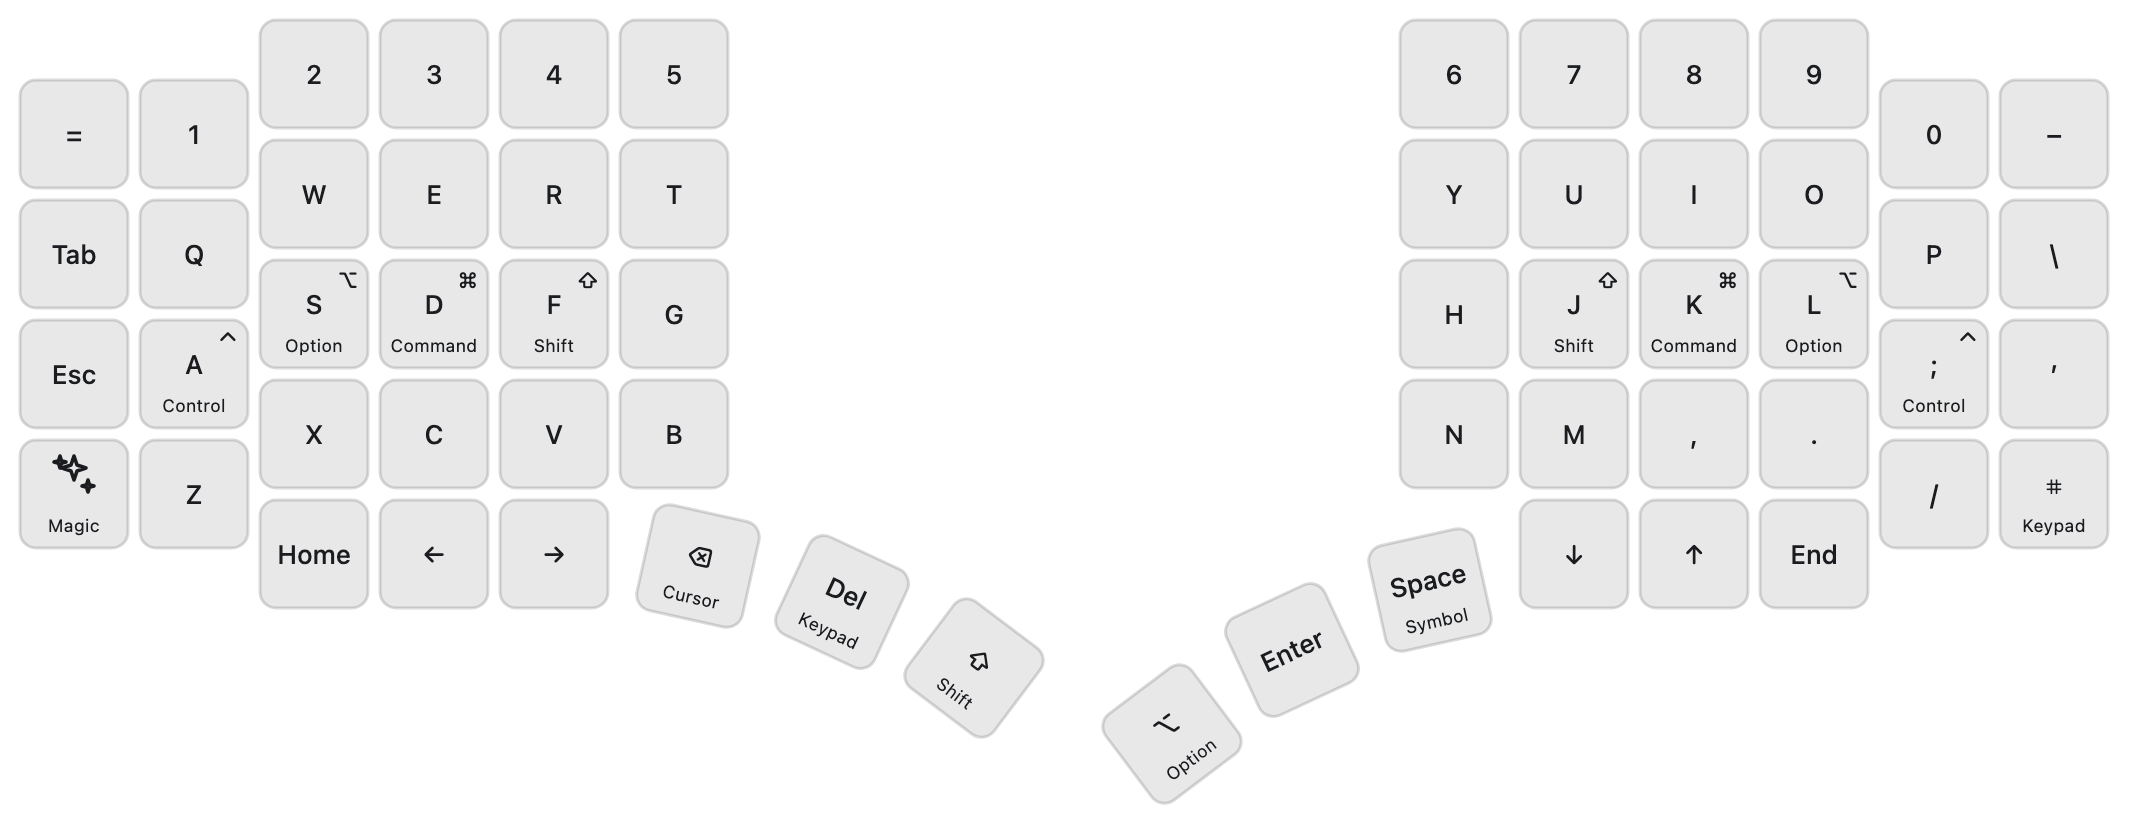
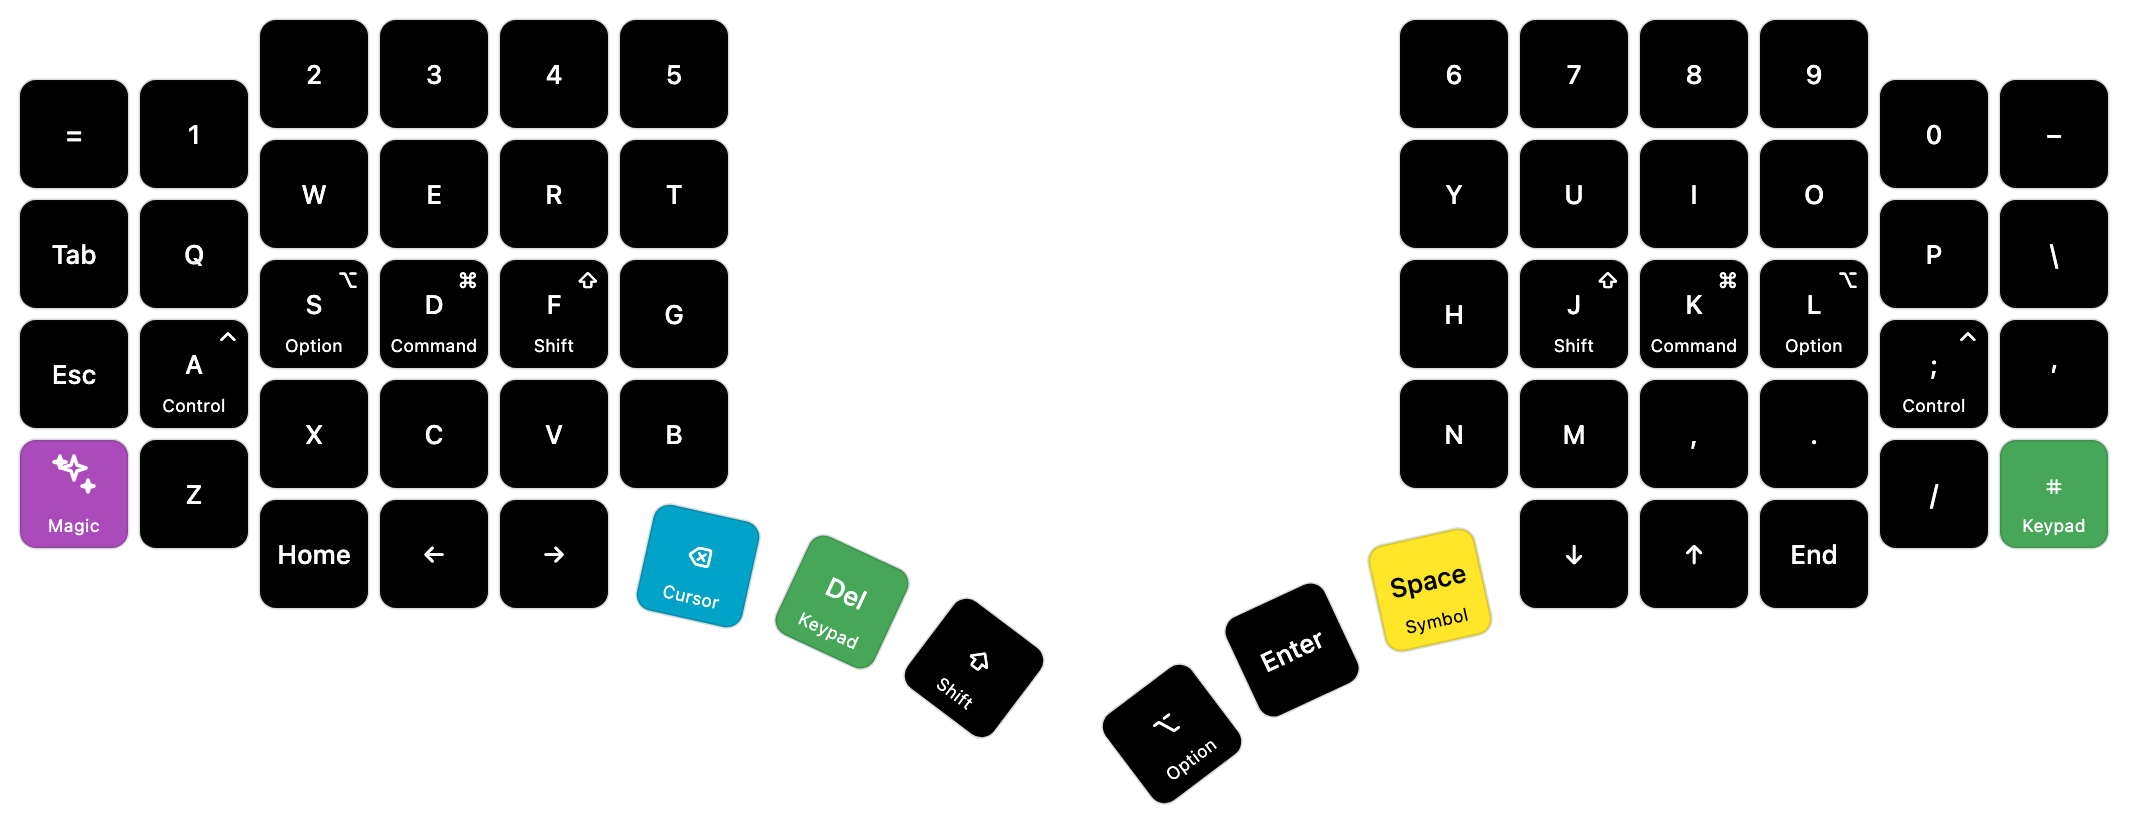
firmware: add base layer RGB guide
Keep the familiar typing layers visually quiet while identifying each
layer entry point by its destination color. Share one map between Base
and Typing so switching typing modes preserves the same guide.

diff --git a/layout-preview.html b/layout-preview.html
@@ -70,7 +70,7 @@
   const controls = root.querySelector("#go60-layer-controls");
   const status = root.querySelector("#go60-layer-status");
   const board = root.querySelector("#go60-board");
-  const layers = [{"name":"Base","bindings":["&kp EQUAL","&kp N1","&kp N2","&kp N3","&kp N4","&kp N5","&kp N6","&kp N7","&kp N8","&kp N9","&kp N0","&kp MINUS","&kp TAB","&kp Q","&kp W","&kp E","&kp R","&kp T","&kp Y","&kp U","&kp I","&kp O","&kp P","&kp BSLH","&kp ESC","&HRM_left_hand_v1_TKZ LCTRL A","&HRM_left_hand_v1_TKZ LALT S","&HRM_left_hand_v1_TKZ LGUI D","&HRM_left_hand_v1_TKZ LSHFT F","&kp G","&kp H","&HRM_right_hand_v1_TKZ RSHFT J","&HRM_right_hand_v1_TKZ LGUI K","&HRM_right_hand_v1_TKZ LALT L","&HRM_right_hand_v1_TKZ RCTRL SEMI","&kp SQT","&magic LAYER_Magic 0","&kp Z","&kp X","&kp C","&kp V","&kp B","&kp N","&kp M","&kp COMMA","&kp DOT","&kp FSLH","&td_LAYER_Keypad","&kp HOME","&kp LEFT","&kp RIGHT","&kp DOWN","&kp UP","&kp END","&lt LAYER_Cursor BSPC","&lt LAYER_Keypad DEL","&kp LSHFT","&kp RALT","&kp RET","&lt LAYER_Symbol SPACE"],"own":"111111111111111111111111111111111111111111111111111111111111"},{"name":"Typing","bindings":["&kp EQUAL","&kp N1","&kp N2","&kp N3","&kp N4","&kp N5","&kp N6","&kp N7","&kp N8","&kp N9","&kp N0","&kp MINUS","&kp TAB","&kp Q","&kp W","&kp E","&kp R","&kp T","&kp Y","&kp U","&kp I","&kp O","&kp P","&kp BSLH","&kp ESC","&kp A","&kp S","&kp D","&kp F","&kp G","&kp H","&kp J","&kp K","&kp L","&kp SEMI","&kp SQT","&magic LAYER_Magic 0","&kp Z","&kp X","&kp C","&kp V","&kp B","&kp N","&kp M","&kp COMMA","&kp DOT","&kp FSLH","&td_LAYER_Keypad","&kp HOME","&kp LEFT","&kp RIGHT","&kp DOWN","&kp UP","&kp END","&lt LAYER_Cursor BSPC","&lt LAYER_Keypad DEL","&kp LSHFT","&kp RALT","&kp RET","&lt LAYER_Symbol SPACE"],"own":"000000000000000000000000011110011110000000000000000000000000"},{"name":"Symbol","bindings":["&kp GRAVE","&kp COMMA","&kp LS(N9)","&kp LS(N0)","&kp SEMI","&kp DOT","&none","&none","&none","&none","&none","&none","&kp LS(N1)","&kp LBKT","&kp LS(LBKT)","&kp LS(RBKT)","&kp RBKT","&kp LS(FSLH)","&kp GRAVE","&kp DEL","&kp LS(TAB)","&kp INS","&kp ESC","&none","&kp LS(N3)","&kp LS(N6)","&kp EQUAL","&kp LS(MINUS)","&kp LS(N4)","&kp LS(N8)","&kp LS(SINGLE_QUOTE)","&kp BSPC","&kp TAB","&kp SPACE","&kp RET","&none","&kp LS(GRAVE)","&kp LS(COMMA)","&kp LS(BSLH)","&kp MINUS","&kp LS(DOT)","&kp FSLH","&kp SQT","&sk LSHFT","&sk LCTRL","&sk LALT","&sk LGUI","&none","&kp SQT","&kp LS(SINGLE_QUOTE)","&kp LS(EQUAL)","&kp BSLH","&kp LS(N7)","&symb_dotdot_v1_TKZ","&kp LS(N5)","&kp LS(SEMI)","&kp LS(N2)","&none","&none","&none"],"own":"111111111111111111111111111111111111111111111111111111111111","colors":["#AB4ABA","#7CE2FE","#7CE2FE","#7CE2FE","#FFE629","#FFE629","#000000","#000000","#000000","#000000","#000000","#000000","#7CE2FE","#AB4ABA","#7CE2FE","#7CE2FE","#FFE629","#FFE629","#AB4ABA","#F76B15","#F76B15","#F76B15","#F76B15","#000000","#FFE629","#FFE629","#BDEE63","#F76B15","#FFE629","#FFE629","#AB4ABA","#F76B15","#F76B15","#F76B15","#F76B15","#000000","#AB4ABA","#BDEE63","#BDEE63","#BDEE63","#BDEE63","#FFE629","#AB4ABA","#EDEEF0","#EDEEF0","#EDEEF0","#EDEEF0","#000000","#AB4ABA","#AB4ABA","#F76B15","#FFE629","#FFE629","#FFE629","#FFE629","#FFE629","#FFE629","#000000","#000000","#000000"]},{"name":"Cursor","bindings":["&none","&kp ESC","&kp INS","&kp LS(TAB)","&kp DEL","&none","&none","&none","&kp K_APP","&kp PAUSE_BREAK","&kp SLCK","&none","&kp CAPS","&kp RET","&kp LS(LG(Z))","&kp LG(Z)","&kp BSPC","&kp LG(X)","&kp LG(X)","&kp LS(TAB)","&kp LG(Z)","&kp LS(LG(Z))","&kp TAB","&kp PSCRN","&sk LSHFT","&kp LCTRL","&kp LALT","&kp LGUI","&kp LSHFT","&kp LG(C)","&kp LG(C)","&kp LEFT","&kp UP","&kp DOWN","&kp RIGHT","&sk RSHFT","&kp LG(L)","&kp LG(A)","&cur_SELECT_LINE_macos_v1_TKZ","&cur_SELECT_WORD_macos_v1_TKZ","&kp LG(F)","&kp LG(V)","&kp LG(V)","&kp HOME","&kp PG_UP","&kp PG_DN","&kp END","&kp LG(L)","&none","&kp LS(LG(G))","&kp LG(G)","&kp LG(F)","&kp LS(LG(G))","&kp LG(G)","&none","&mod_tab_v2_TKZ LGUI","&kp LG(F3)","&cur_SELECT_NONE_v1_TKZ","&cur_EXTEND_LINE_macos_v1_TKZ","&cur_EXTEND_WORD_macos_v1_TKZ"],"own":"111111111111111111111111111111111111111111111111111111111111","colors":["#000000","#F76B15","#F76B15","#F76B15","#F76B15","#000000","#000000","#000000","#000000","#000000","#000000","#000000","#000000","#F76B15","#AB4ABA","#AB4ABA","#F76B15","#FFE629","#FFE629","#F76B15","#D6409F","#D6409F","#F76B15","#000000","#EDEEF0","#EDEEF0","#EDEEF0","#EDEEF0","#EDEEF0","#FFE629","#FFE629","#46A758","#46A758","#46A758","#46A758","#EDEEF0","#AB4ABA","#00A2C7","#00A2C7","#00A2C7","#AB4ABA","#FFE629","#FFE629","#46A758","#46A758","#46A758","#46A758","#AB4ABA","#000000","#AB4ABA","#AB4ABA","#AB4ABA","#AB4ABA","#AB4ABA","#000000","#29A383","#000000","#00A2C7","#00A2C7","#00A2C7"]},{"name":"Gaming","bindings":["&kp ESC","&kp N1","&kp N2","&kp N3","&kp N4","&kp N5","&kp N6","&kp N7","&kp N8","&kp N9","&kp N0","&kp MINUS","&kp RET","&kp TAB","&kp Q","&kp W","&kp E","&kp R","&kp Y","&kp U","&kp I","&kp O","&kp P","&kp LS(EQUAL)","&kp GRAVE","&kp LSHFT","&kp A","&kp S","&kp D","&kp F","&kp H","&kp J","&kp K","&kp L","&kp SEMI","&kp LS(SQT)","&kp B","&kp LCTRL","&kp Z","&kp X","&kp C","&kp V","&kp N","&kp M","&kp UP","&kp LS(COMMA)","&kp LS(DOT)","&kp LGUI","&kp LALT","&kp T","&kp G","&kp LEFT","&kp DOWN","&kp RIGHT","&kp SPACE","&kp LSHFT","&kp LCTRL","&kp BSPC","&kp LALT","&kp RET"],"own":"111111111111111111111111111111111111111111111111111111111111","colors":["#000000","#000000","#000000","#000000","#000000","#000000","#000000","#000000","#000000","#000000","#000000","#000000","#000000","#000000","#000000","#46A758","#000000","#000000","#000000","#000000","#000000","#000000","#000000","#000000","#000000","#000000","#46A758","#46A758","#46A758","#000000","#000000","#000000","#000000","#000000","#000000","#000000","#FFE629","#000000","#000000","#000000","#000000","#000000","#000000","#000000","#46A758","#000000","#000000","#000000","#000000","#000000","#000000","#46A758","#46A758","#46A758","#000000","#000000","#000000","#000000","#000000","#000000"]},{"name":"Keypad","bindings":["&none","&kp F1","&kp F2","&kp F3","&kp F4","&kp F5","&kp F6","&kp F7","&kp F8","&kp F9","&kp F10","&kp F11","&kp TAB","&none","&kp HOME","&kp UP","&kp END","&kp PG_UP","&kp KP_N7","&kp KP_N8","&kp KP_N9","&kp KP_MINUS","&kp KP_SLASH","&kp F12","&kp ESC","&kp LG(LS(Z))","&kp LEFT","&kp DOWN","&kp RIGHT","&kp PG_DN","&kp KP_N4","&kp KP_N5","&kp KP_N6","&kp KP_PLUS","&kp KP_MULTIPLY","&kp KP_NUM","&magic LAYER_Magic 0","&kp LG(Z)","&kp LG(X)","&kp LG(C)","&kp LG(V)","&kp LG(LA(LS(V)))","&kp KP_N1","&kp KP_N2","&kp KP_N3","&kp KP_ENTER","&kp EQUAL","&to LAYER_Base","&none","&kp T","&kp G","&kp KP_N0","&kp KP_DOT","&kp KP_ENTER","&none","&kp LSHFT","&kp LCTRL","&kp BSPC","&kp LALT","&kp KP_N0"],"own":"111111111111111111111111111111111111111111111111100111100001","colors":["#000000","#EDEEF0","#EDEEF0","#EDEEF0","#EDEEF0","#EDEEF0","#EDEEF0","#EDEEF0","#EDEEF0","#EDEEF0","#EDEEF0","#EDEEF0","#EDEEF0","#000000","#46A758","#46A758","#46A758","#46A758","#EDEEF0","#EDEEF0","#EDEEF0","#EDEEF0","#EDEEF0","#EDEEF0","#EDEEF0","#FFE629","#46A758","#46A758","#46A758","#46A758","#EDEEF0","#EDEEF0","#EDEEF0","#EDEEF0","#EDEEF0","#F76B15","#000000","#FFE629","#FFE629","#FFE629","#FFE629","#FFE629","#EDEEF0","#EDEEF0","#EDEEF0","#EDEEF0","#EDEEF0","#000000","#000000","#EDEEF0","#EDEEF0","#EDEEF0","#EDEEF0","#EDEEF0","#EDEEF0","#EDEEF0","#EDEEF0","#EDEEF0","#EDEEF0","#EDEEF0"]},{"name":"Magic","bindings":["&none","&kp C_BRI_DN","&kp C_BRI_UP","&kp C_PREV","&kp C_NEXT","&kp C_PP","&kp C_MUTE","&kp C_VOL_DN","&kp C_VOL_UP","&none","&bt BT_CLR","&bt BT_CLR_ALL","&bootloader","&rgb_ug RGB_SPI","&rgb_ug RGB_SAI","&rgb_ug RGB_HUI","&rgb_ug RGB_BRI","&rgb_ug RGB_TOG","&none","&none","&none","&none","&none","&bootloader","&sys_reset","&rgb_ug RGB_SPD","&rgb_ug RGB_SAD","&rgb_ug RGB_HUD","&rgb_ug RGB_BRD","&rgb_ug RGB_EFF","&none","&none","&none","&none","&none","&sys_reset","&none","&none","&bt_0","&bt_1","&bt_2","&bt_3","&none","&none","&none","&none","&none","&none","&out OUT_USB","&none","&to LAYER_Typing","&none","&none","&none","&to LAYER_Base","&none","&none","&none","&none","&none"],"own":"111111111111111111111111111111111111111111111111111111111111"}];
+  const layers = [{"name":"Base","bindings":["&kp EQUAL","&kp N1","&kp N2","&kp N3","&kp N4","&kp N5","&kp N6","&kp N7","&kp N8","&kp N9","&kp N0","&kp MINUS","&kp TAB","&kp Q","&kp W","&kp E","&kp R","&kp T","&kp Y","&kp U","&kp I","&kp O","&kp P","&kp BSLH","&kp ESC","&HRM_left_hand_v1_TKZ LCTRL A","&HRM_left_hand_v1_TKZ LALT S","&HRM_left_hand_v1_TKZ LGUI D","&HRM_left_hand_v1_TKZ LSHFT F","&kp G","&kp H","&HRM_right_hand_v1_TKZ RSHFT J","&HRM_right_hand_v1_TKZ LGUI K","&HRM_right_hand_v1_TKZ LALT L","&HRM_right_hand_v1_TKZ RCTRL SEMI","&kp SQT","&magic LAYER_Magic 0","&kp Z","&kp X","&kp C","&kp V","&kp B","&kp N","&kp M","&kp COMMA","&kp DOT","&kp FSLH","&td_LAYER_Keypad","&kp HOME","&kp LEFT","&kp RIGHT","&kp DOWN","&kp UP","&kp END","&lt LAYER_Cursor BSPC","&lt LAYER_Keypad DEL","&kp LSHFT","&kp RALT","&kp RET","&lt LAYER_Symbol SPACE"],"own":"111111111111111111111111111111111111111111111111111111111111","colors":["#000000","#000000","#000000","#000000","#000000","#000000","#000000","#000000","#000000","#000000","#000000","#000000","#000000","#000000","#000000","#000000","#000000","#000000","#000000","#000000","#000000","#000000","#000000","#000000","#000000","#000000","#000000","#000000","#000000","#000000","#000000","#000000","#000000","#000000","#000000","#000000","#AB4ABA","#000000","#000000","#000000","#000000","#000000","#000000","#000000","#000000","#000000","#000000","#46A758","#000000","#000000","#000000","#000000","#000000","#000000","#00A2C7","#46A758","#000000","#000000","#000000","#FFE629"]},{"name":"Typing","bindings":["&kp EQUAL","&kp N1","&kp N2","&kp N3","&kp N4","&kp N5","&kp N6","&kp N7","&kp N8","&kp N9","&kp N0","&kp MINUS","&kp TAB","&kp Q","&kp W","&kp E","&kp R","&kp T","&kp Y","&kp U","&kp I","&kp O","&kp P","&kp BSLH","&kp ESC","&kp A","&kp S","&kp D","&kp F","&kp G","&kp H","&kp J","&kp K","&kp L","&kp SEMI","&kp SQT","&magic LAYER_Magic 0","&kp Z","&kp X","&kp C","&kp V","&kp B","&kp N","&kp M","&kp COMMA","&kp DOT","&kp FSLH","&td_LAYER_Keypad","&kp HOME","&kp LEFT","&kp RIGHT","&kp DOWN","&kp UP","&kp END","&lt LAYER_Cursor BSPC","&lt LAYER_Keypad DEL","&kp LSHFT","&kp RALT","&kp RET","&lt LAYER_Symbol SPACE"],"own":"000000000000000000000000011110011110000000000000000000000000","colors":["#000000","#000000","#000000","#000000","#000000","#000000","#000000","#000000","#000000","#000000","#000000","#000000","#000000","#000000","#000000","#000000","#000000","#000000","#000000","#000000","#000000","#000000","#000000","#000000","#000000","#000000","#000000","#000000","#000000","#000000","#000000","#000000","#000000","#000000","#000000","#000000","#AB4ABA","#000000","#000000","#000000","#000000","#000000","#000000","#000000","#000000","#000000","#000000","#46A758","#000000","#000000","#000000","#000000","#000000","#000000","#00A2C7","#46A758","#000000","#000000","#000000","#FFE629"]},{"name":"Symbol","bindings":["&kp GRAVE","&kp COMMA","&kp LS(N9)","&kp LS(N0)","&kp SEMI","&kp DOT","&none","&none","&none","&none","&none","&none","&kp LS(N1)","&kp LBKT","&kp LS(LBKT)","&kp LS(RBKT)","&kp RBKT","&kp LS(FSLH)","&kp GRAVE","&kp DEL","&kp LS(TAB)","&kp INS","&kp ESC","&none","&kp LS(N3)","&kp LS(N6)","&kp EQUAL","&kp LS(MINUS)","&kp LS(N4)","&kp LS(N8)","&kp LS(SINGLE_QUOTE)","&kp BSPC","&kp TAB","&kp SPACE","&kp RET","&none","&kp LS(GRAVE)","&kp LS(COMMA)","&kp LS(BSLH)","&kp MINUS","&kp LS(DOT)","&kp FSLH","&kp SQT","&sk LSHFT","&sk LCTRL","&sk LALT","&sk LGUI","&none","&kp SQT","&kp LS(SINGLE_QUOTE)","&kp LS(EQUAL)","&kp BSLH","&kp LS(N7)","&symb_dotdot_v1_TKZ","&kp LS(N5)","&kp LS(SEMI)","&kp LS(N2)","&none","&none","&none"],"own":"111111111111111111111111111111111111111111111111111111111111","colors":["#AB4ABA","#7CE2FE","#7CE2FE","#7CE2FE","#FFE629","#FFE629","#000000","#000000","#000000","#000000","#000000","#000000","#7CE2FE","#AB4ABA","#7CE2FE","#7CE2FE","#FFE629","#FFE629","#AB4ABA","#F76B15","#F76B15","#F76B15","#F76B15","#000000","#FFE629","#FFE629","#BDEE63","#F76B15","#FFE629","#FFE629","#AB4ABA","#F76B15","#F76B15","#F76B15","#F76B15","#000000","#AB4ABA","#BDEE63","#BDEE63","#BDEE63","#BDEE63","#FFE629","#AB4ABA","#EDEEF0","#EDEEF0","#EDEEF0","#EDEEF0","#000000","#AB4ABA","#AB4ABA","#F76B15","#FFE629","#FFE629","#FFE629","#FFE629","#FFE629","#FFE629","#000000","#000000","#000000"]},{"name":"Cursor","bindings":["&none","&kp ESC","&kp INS","&kp LS(TAB)","&kp DEL","&none","&none","&none","&kp K_APP","&kp PAUSE_BREAK","&kp SLCK","&none","&kp CAPS","&kp RET","&kp LS(LG(Z))","&kp LG(Z)","&kp BSPC","&kp LG(X)","&kp LG(X)","&kp LS(TAB)","&kp LG(Z)","&kp LS(LG(Z))","&kp TAB","&kp PSCRN","&sk LSHFT","&kp LCTRL","&kp LALT","&kp LGUI","&kp LSHFT","&kp LG(C)","&kp LG(C)","&kp LEFT","&kp UP","&kp DOWN","&kp RIGHT","&sk RSHFT","&kp LG(L)","&kp LG(A)","&cur_SELECT_LINE_macos_v1_TKZ","&cur_SELECT_WORD_macos_v1_TKZ","&kp LG(F)","&kp LG(V)","&kp LG(V)","&kp HOME","&kp PG_UP","&kp PG_DN","&kp END","&kp LG(L)","&none","&kp LS(LG(G))","&kp LG(G)","&kp LG(F)","&kp LS(LG(G))","&kp LG(G)","&none","&mod_tab_v2_TKZ LGUI","&kp LG(F3)","&cur_SELECT_NONE_v1_TKZ","&cur_EXTEND_LINE_macos_v1_TKZ","&cur_EXTEND_WORD_macos_v1_TKZ"],"own":"111111111111111111111111111111111111111111111111111111111111","colors":["#000000","#F76B15","#F76B15","#F76B15","#F76B15","#000000","#000000","#000000","#000000","#000000","#000000","#000000","#000000","#F76B15","#AB4ABA","#AB4ABA","#F76B15","#FFE629","#FFE629","#F76B15","#D6409F","#D6409F","#F76B15","#000000","#EDEEF0","#EDEEF0","#EDEEF0","#EDEEF0","#EDEEF0","#FFE629","#FFE629","#46A758","#46A758","#46A758","#46A758","#EDEEF0","#AB4ABA","#00A2C7","#00A2C7","#00A2C7","#AB4ABA","#FFE629","#FFE629","#46A758","#46A758","#46A758","#46A758","#AB4ABA","#000000","#AB4ABA","#AB4ABA","#AB4ABA","#AB4ABA","#AB4ABA","#000000","#29A383","#000000","#00A2C7","#00A2C7","#00A2C7"]},{"name":"Gaming","bindings":["&kp ESC","&kp N1","&kp N2","&kp N3","&kp N4","&kp N5","&kp N6","&kp N7","&kp N8","&kp N9","&kp N0","&kp MINUS","&kp RET","&kp TAB","&kp Q","&kp W","&kp E","&kp R","&kp Y","&kp U","&kp I","&kp O","&kp P","&kp LS(EQUAL)","&kp GRAVE","&kp LSHFT","&kp A","&kp S","&kp D","&kp F","&kp H","&kp J","&kp K","&kp L","&kp SEMI","&kp LS(SQT)","&kp B","&kp LCTRL","&kp Z","&kp X","&kp C","&kp V","&kp N","&kp M","&kp UP","&kp LS(COMMA)","&kp LS(DOT)","&kp LGUI","&kp LALT","&kp T","&kp G","&kp LEFT","&kp DOWN","&kp RIGHT","&kp SPACE","&kp LSHFT","&kp LCTRL","&kp BSPC","&kp LALT","&kp RET"],"own":"111111111111111111111111111111111111111111111111111111111111","colors":["#000000","#000000","#000000","#000000","#000000","#000000","#000000","#000000","#000000","#000000","#000000","#000000","#000000","#000000","#000000","#46A758","#000000","#000000","#000000","#000000","#000000","#000000","#000000","#000000","#000000","#000000","#46A758","#46A758","#46A758","#000000","#000000","#000000","#000000","#000000","#000000","#000000","#FFE629","#000000","#000000","#000000","#000000","#000000","#000000","#000000","#46A758","#000000","#000000","#000000","#000000","#000000","#000000","#46A758","#46A758","#46A758","#000000","#000000","#000000","#000000","#000000","#000000"]},{"name":"Keypad","bindings":["&none","&kp F1","&kp F2","&kp F3","&kp F4","&kp F5","&kp F6","&kp F7","&kp F8","&kp F9","&kp F10","&kp F11","&kp TAB","&none","&kp HOME","&kp UP","&kp END","&kp PG_UP","&kp KP_N7","&kp KP_N8","&kp KP_N9","&kp KP_MINUS","&kp KP_SLASH","&kp F12","&kp ESC","&kp LG(LS(Z))","&kp LEFT","&kp DOWN","&kp RIGHT","&kp PG_DN","&kp KP_N4","&kp KP_N5","&kp KP_N6","&kp KP_PLUS","&kp KP_MULTIPLY","&kp KP_NUM","&magic LAYER_Magic 0","&kp LG(Z)","&kp LG(X)","&kp LG(C)","&kp LG(V)","&kp LG(LA(LS(V)))","&kp KP_N1","&kp KP_N2","&kp KP_N3","&kp KP_ENTER","&kp EQUAL","&to LAYER_Base","&none","&kp T","&kp G","&kp KP_N0","&kp KP_DOT","&kp KP_ENTER","&none","&kp LSHFT","&kp LCTRL","&kp BSPC","&kp LALT","&kp KP_N0"],"own":"111111111111111111111111111111111111111111111111100111100001","colors":["#000000","#EDEEF0","#EDEEF0","#EDEEF0","#EDEEF0","#EDEEF0","#EDEEF0","#EDEEF0","#EDEEF0","#EDEEF0","#EDEEF0","#EDEEF0","#EDEEF0","#000000","#46A758","#46A758","#46A758","#46A758","#EDEEF0","#EDEEF0","#EDEEF0","#EDEEF0","#EDEEF0","#EDEEF0","#EDEEF0","#FFE629","#46A758","#46A758","#46A758","#46A758","#EDEEF0","#EDEEF0","#EDEEF0","#EDEEF0","#EDEEF0","#F76B15","#000000","#FFE629","#FFE629","#FFE629","#FFE629","#FFE629","#EDEEF0","#EDEEF0","#EDEEF0","#EDEEF0","#EDEEF0","#000000","#000000","#EDEEF0","#EDEEF0","#EDEEF0","#EDEEF0","#EDEEF0","#EDEEF0","#EDEEF0","#EDEEF0","#EDEEF0","#EDEEF0","#EDEEF0"]},{"name":"Magic","bindings":["&none","&kp C_BRI_DN","&kp C_BRI_UP","&kp C_PREV","&kp C_NEXT","&kp C_PP","&kp C_MUTE","&kp C_VOL_DN","&kp C_VOL_UP","&none","&bt BT_CLR","&bt BT_CLR_ALL","&bootloader","&rgb_ug RGB_SPI","&rgb_ug RGB_SAI","&rgb_ug RGB_HUI","&rgb_ug RGB_BRI","&rgb_ug RGB_TOG","&none","&none","&none","&none","&none","&bootloader","&sys_reset","&rgb_ug RGB_SPD","&rgb_ug RGB_SAD","&rgb_ug RGB_HUD","&rgb_ug RGB_BRD","&rgb_ug RGB_EFF","&none","&none","&none","&none","&none","&sys_reset","&none","&none","&bt_0","&bt_1","&bt_2","&bt_3","&none","&none","&none","&none","&none","&none","&out OUT_USB","&none","&to LAYER_Typing","&none","&none","&none","&to LAYER_Base","&none","&none","&none","&none","&none"],"own":"111111111111111111111111111111111111111111111111111111111111"}];
   const layerNames = layers.map(layer => layer.name);
   const keyNames = ["LH C6R1","LH C5R1","LH C4R1","LH C3R1","LH C2R1","LH C1R1","RH C1R1","RH C2R1","RH C3R1","RH C4R1","RH C5R1","RH C6R1","LH C6R2","LH C5R2","LH C4R2","LH C3R2","LH C2R2","LH C1R2","RH C1R2","RH C2R2","RH C3R2","RH C4R2","RH C5R2","RH C6R2","LH C6R3","LH C5R3","LH C4R3","LH C3R3","LH C2R3","LH C1R3","RH C1R3","RH C2R3","RH C3R3","RH C4R3","RH C5R3","RH C6R3","LH C6R4","LH C5R4","LH C4R4","LH C3R4","LH C2R4","LH C1R4","RH C1R4","RH C2R4","RH C3R4","RH C4R4","RH C5R4","RH C6R4","LH C4R5","LH C3R5","LH C2R5","RH C2R5","RH C3R5","RH C4R5","LH T1","LH T2","LH T3","RH T3","RH T2","RH T1"];
   const positions = [];